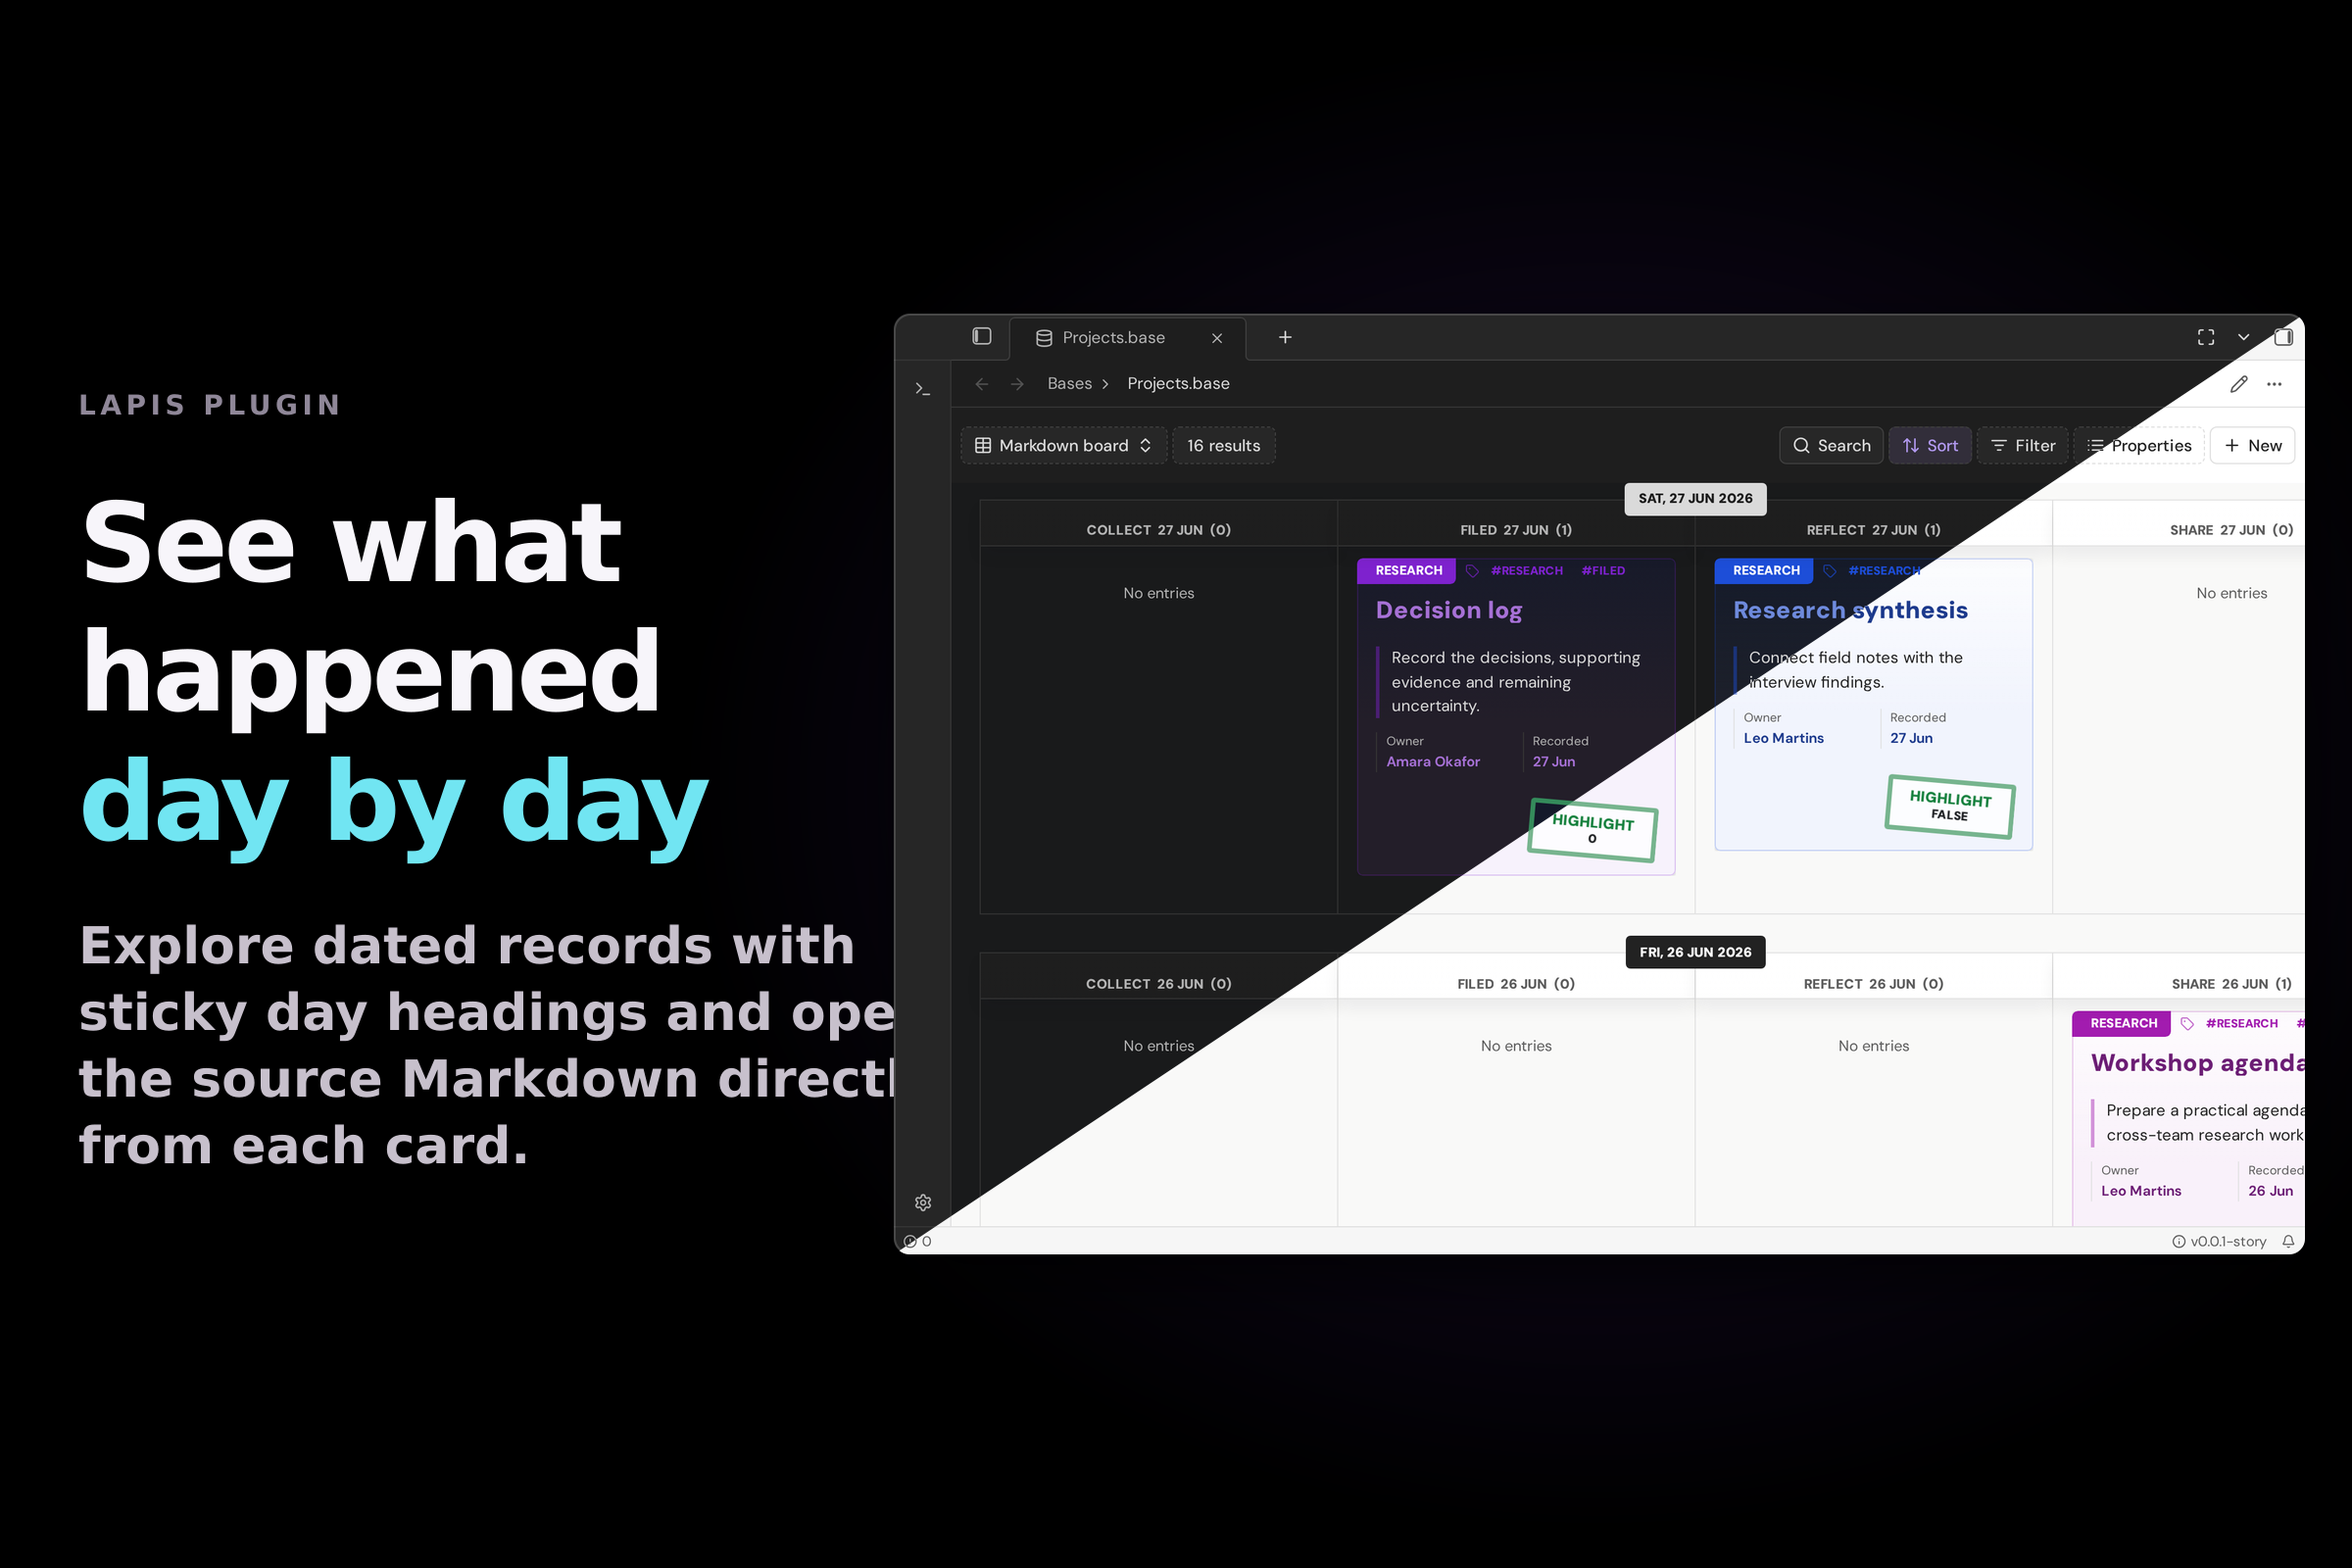
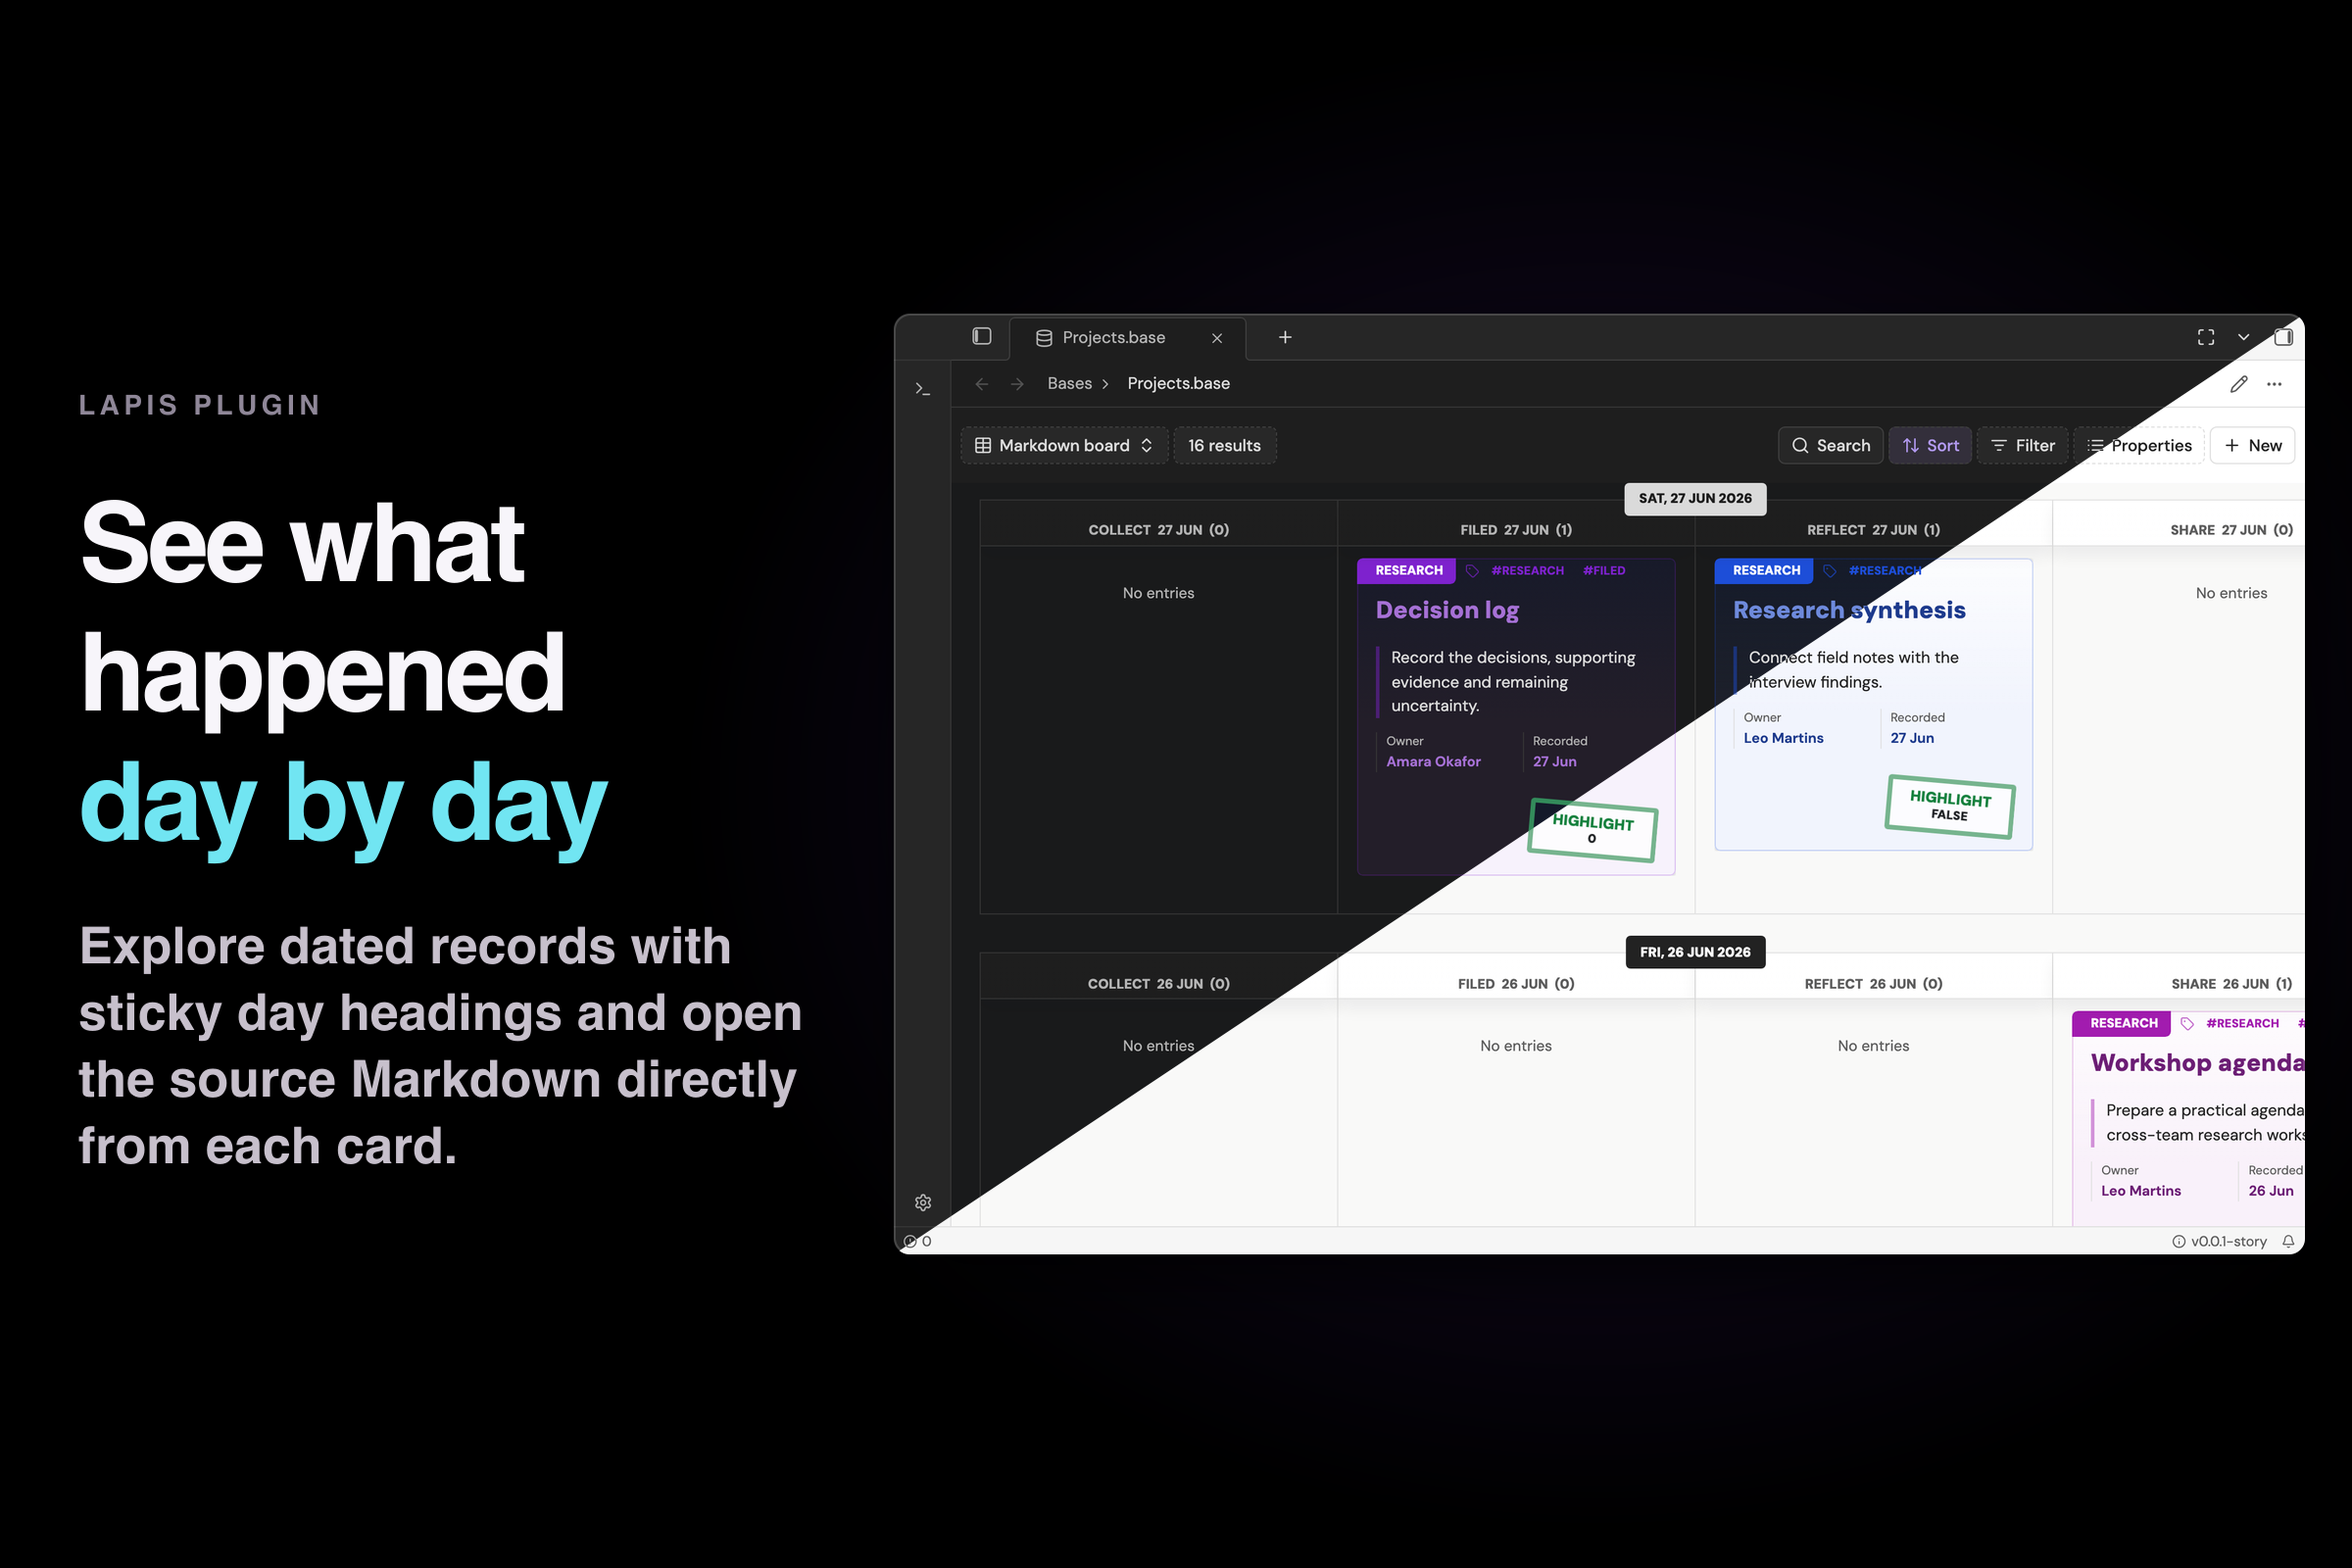
Refresh Bases registry media for the current five layouts

diff --git a/spec/records/2026-11-13-bases-website-media.md b/spec/records/2026-11-13-bases-website-media.md
@@ -1,0 +1,44 @@
+# Bases website media refresh
+
+Reviewed November 13, 2026 against public parent
+`42bc2291ac6527b05b4996ed5df5d975eefed277`, package `@lapis-notes/bases@0.3.1`.
+Only generated registry media and this evidence change. Runtime, registry
+metadata, fixed story IDs and baselines remain unchanged.
+
+## Capture evidence
+
+The six existing Registry Screenshots stories (Filter options, Cover cards,
+Overview, Grouped List, Kanban and Activity) passed all interactions and axe
+checks in a cold owner-configured Storybook run: 6 passed, 0 failed. A fresh
+static Storybook build passed. `pnpm registry:media:capture -- --plugin bases
+--storybook-dir .local/website-media-bases/storybook-static` regenerated all
+seven declared items, 28 assets, at 1200x800 CSS pixels and 2x density in both
+themes. The matching `registry:media:check` verified all seven deterministically.
+Banner and Overview were visually inspected in both themes: populated cover
+cards and grouped project records with grouping controls open. Captures remain
+visual-pending; no visual baseline was created, replaced or approved.
+
+## Qualification
+
+- Frozen registry install passed.
+- `pnpm --dir packages/bases check`: zero errors and warnings.
+- `pnpm --dir packages/bases test`: 26 files, 277 tests passed, zero failed.
+- `pnpm --dir packages/bases build`: package build and publint passed.
+- `LAPIS_PLUGINS_VALIDATION_RUNTIME=native pnpm check:app-ownership`: passed.
+- `pnpm audit`: zero unignored findings; two existing low findings ignored by
+  the unchanged repository policy.
+- `pnpm spec:validate`: 8 validators, 34 chapters, 729 requirements passed.
+- `pnpm spec:first`: initially failed once because regenerated assets require
+  their mapped canonical chapter; the chapter now records this refresh.
+
+The website imports the four plain banner/overview themed assets only, pinned
+to the final source commit and checksummed. This does not publish npm packages,
+plugin archives or registry releases, or claim native host qualification.
+Local logs are under ignored `.local/website-media-bases/`.
+
+After recording the canonical refresh, the exact `pnpm spec:first` gate passed
+(28 protected files, one canonical chapter). `pnpm spec:check` passed all three
+lanes (validation, mdBook and spec-first), and `pnpm --dir packages/bases pack
+--pack-destination ../../.local/website-media-bases/pack` produced the local npm
+tarball with a passing prepack/publint. Release signatures and archive publication
+were not changed and are outside this media-only slice.

diff --git a/spec/src/plugins/bases/index.md b/spec/src/plugins/bases/index.md
@@ -280,3 +280,13 @@ MUST NOT become all-tag candidate restrictions. Final PEaQL filtering precedes
 limits for raw, OR, NOT and unsupported predicates.
 
 LN-BASE-046 bracketed property IDs MUST remain at the typed final evaluator boundary rather than being mistaken for literal AppDatabase property names during filter/sort pushdown. Such predicates MUST NOT admit an early candidate limit.
+
+## Website media refresh — November 13, 2026
+
+The website refresh regenerates all seven declared Bases registry media items
+from the existing fixed capture stories at source version 0.3.1. The banner
+retains Cover cards and the separate Overview retains Grouped List. Kanban and
+Activity gallery captures remain included. Both themes use the existing
+1200x800, 2x capture contract. No runtime, story assertion or visual baseline
+changes are part of this refresh. The immutable receipt is
+[the website media record](../../../records/2026-11-13-bases-website-media.md).
